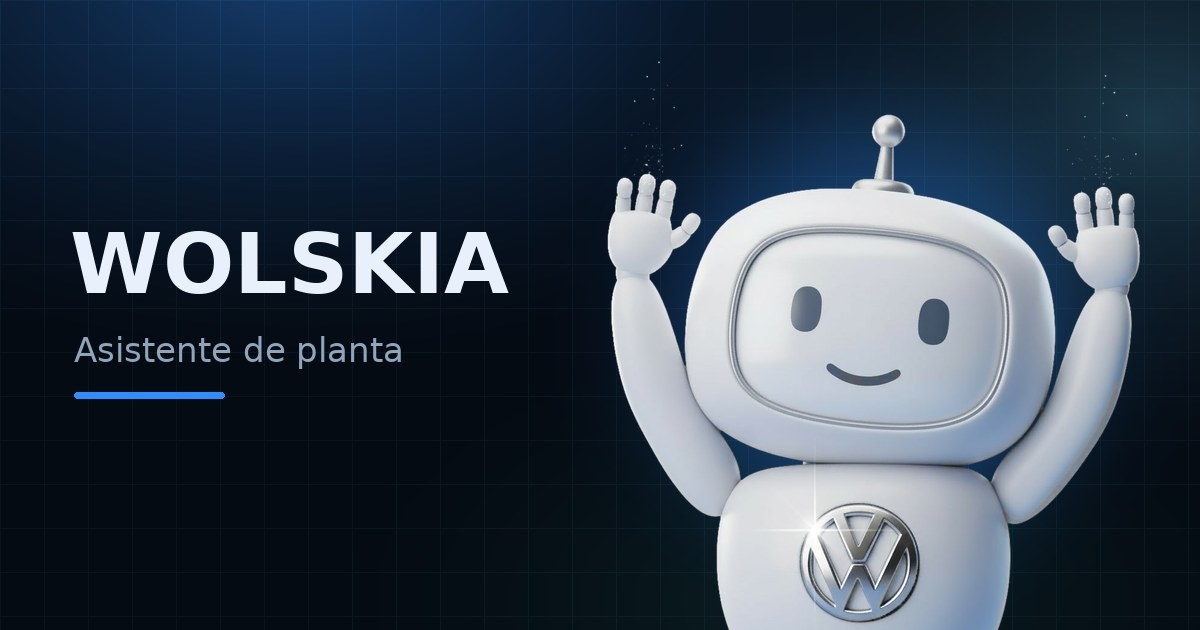
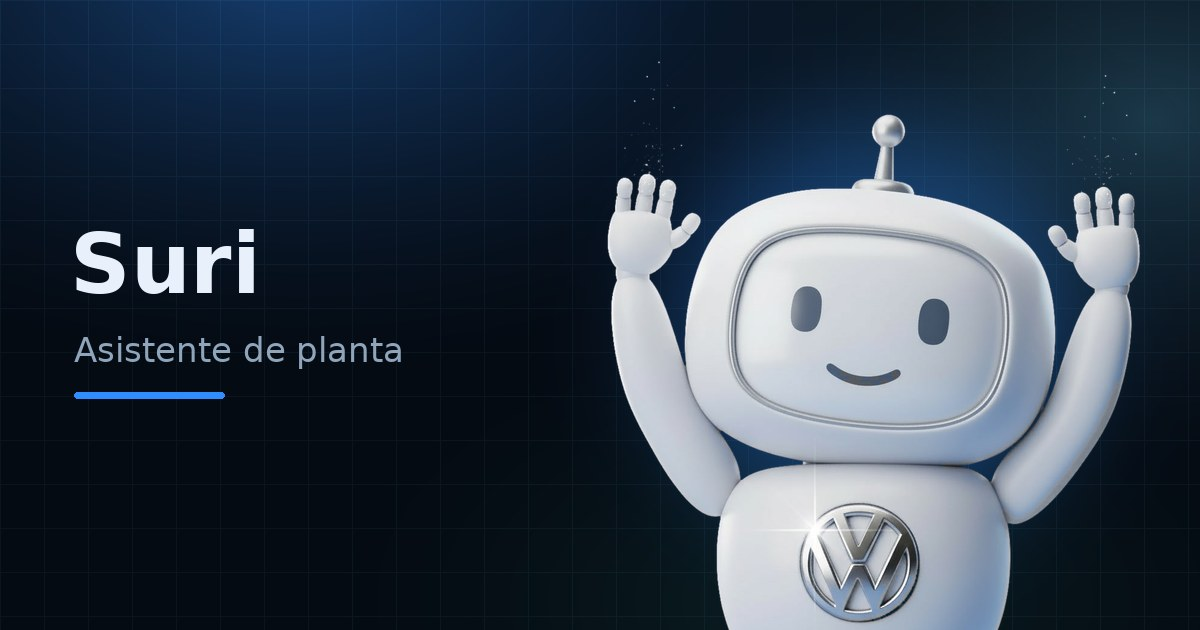
Nombre suri

Changed region(s): [[0.0617, 0.3619, 0.4317, 0.4825]]

diff --git a/WOLSKIA_Integrado/backend/templates/index.html b/WOLSKIA_Integrado/backend/templates/index.html
@@ -1,5 +1,5 @@
 <!doctype html>
-<html lang="es"><head><meta charset="utf-8"><meta name="viewport" content="width=device-width,initial-scale=1"><title>WOLSKIA — AI Assistant</title>
+<html lang="es"><head><meta charset="utf-8"><meta name="viewport" content="width=device-width,initial-scale=1"><title>Suri — AI Assistant</title>
 <style>
 :root{--bg:#050b13;--side:#07121f;--panel:#091522;--panel2:#0d1c2c;--line:#172b40;--txt:#e9f1fb;--muted:#8fa5bc;--blue:#2388ff;--cyan:#62d6ff;--green:#3dd6a4}
 *{box-sizing:border-box}body{margin:0;background:var(--bg);color:var(--txt);font-family:Inter,Segoe UI,Arial,sans-serif;font-size:14px}button,input,textarea{font:inherit}button{cursor:pointer}.app{min-height:100vh;display:grid;grid-template-columns:220px minmax(0,1fr);gap:12px;padding:12px;max-width:1600px;margin:auto}.sidebar{background:linear-gradient(180deg,#081522,#06101a);border:1px solid var(--line);border-radius:20px;padding:16px 12px;display:flex;flex-direction:column;min-height:calc(100vh - 24px)}.brand{display:flex;align-items:center;gap:10px;padding:5px 7px 24px}.brandlogo{width:34px;height:34px;border-radius:11px;background:linear-gradient(145deg,#237aff,#54d9ff);display:grid;place-items:center;color:#04111d;font-size:20px;font-weight:900;box-shadow:0 0 25px #2388ff3d}.brandname{font-size:16px;font-weight:850;letter-spacing:1.2px}.online{width:7px;height:7px;border-radius:50%;background:#32cfff;margin-left:auto}.nav{display:grid;gap:5px}.nav button{border:1px solid transparent;background:transparent;color:#a9bbce;text-align:left;padding:12px 11px;border-radius:11px;display:flex;gap:11px;align-items:center}.nav button span:first-child{width:20px;text-align:center;font-size:17px}.nav button:hover,.nav button.active{background:linear-gradient(90deg,#103664,#0d2748);color:#f5fbff;border-color:#173b62}.sidebottom{margin-top:auto}.darkrow{display:flex;align-items:center;justify-content:space-between;color:var(--muted);font-size:12px;padding:14px 5px}.switch{width:34px;height:18px;background:#23405e;border-radius:20px;position:relative;border:0}.switch:after{content:"";position:absolute;left:3px;top:3px;width:12px;height:12px;border-radius:50%;background:#fff;transition:.2s}.switch.on{background:#227ef2}.switch.on:after{left:19px}.profile{border-top:1px solid var(--line);padding:14px 4px 2px;display:flex;gap:10px;align-items:center}.avatar{height:34px;width:34px;border-radius:50%;background:#173e60;display:grid;place-items:center;font-weight:800;color:#8ce1ff}.profile strong{font-size:12px;display:block}.profile small{font-size:11px;color:var(--muted)}main{min-width:0;display:grid;grid-template-columns:minmax(0,1fr) 275px;gap:12px}.center{background:linear-gradient(150deg,#07111d,#050c15);border:1px solid var(--line);border-radius:20px;min-height:calc(100vh - 24px);display:flex;flex-direction:column;overflow:hidden}.page{display:none;min-height:100%;flex:1}.page.active{display:flex;flex-direction:column}.chathead{padding:26px 28px 10px}.eyebrow{color:var(--cyan);font-size:10px;letter-spacing:2px;font-weight:800}.chathead h1{font-size:clamp(24px,3vw,35px);line-height:1.16;margin:10px 0 8px;letter-spacing:-.8px}.gradient{color:#4e9dff}.chathead p{color:var(--muted);margin:0;line-height:1.6}.welcome{display:grid;grid-template-columns:minmax(0,1fr) 180px;align-items:center;gap:10px;padding:8px 28px 12px;flex:1;min-height:220px}.prompts{display:grid;grid-template-columns:1fr 1fr;gap:10px}.prompt{background:#0c1e31;border:1px solid #172f48;border-radius:13px;padding:13px;color:#c8d7e7;text-align:left;line-height:1.45;font-size:12px}.prompt:hover{border-color:#2b83ce;background:#102844}.bot{width:155px;height:155px;border-radius:50%;display:grid;place-items:center;margin:auto;background:radial-gradient(circle,#113f73 0%,#071a31 55%,transparent 70%);font-size:83px;filter:drop-shadow(0 0 18px #248dff4d)}.messages{display:none;flex:1;overflow:auto;padding:22px 26px;gap:14px;flex-direction:column;min-height:220px}.msg{max-width:88%;padding:13px 15px;border-radius:15px;line-height:1.6;white-space:pre-wrap;overflow-wrap:anywhere}.msg.user{align-self:flex-end;background:#123b69;border:1px solid #1a5790}.msg.assistant{align-self:flex-start;background:#0e1d2d;border:1px solid #1b3045}.msg .who{font-size:10px;color:#7fcfff;margin-bottom:5px;font-weight:800}.composer-wrap{padding:12px 26px 22px}.composer{display:flex;gap:9px;align-items:center;border:1px solid #1c3650;background:#030a12;border-radius:18px;padding:7px 8px 7px 14px;box-shadow:0 8px 30px #0004}.composer input{flex:1;min-width:0;background:transparent;border:0;outline:0;color:white;padding:10px 0}.round{height:39px;width:39px;border-radius:50%;border:0;background:#187bff;color:white;font-size:18px;box-shadow:0 0 17px #187bff40}.composer-tools{display:flex;gap:8px;flex-wrap:wrap;margin-top:12px}.chip{background:#0b1725;border:1px solid #1b2c40;border-radius:20px;color:#9fb3c8;padding:9px 12px;font-size:11px}.chip:hover{color:white;border-color:#2d6ca7}.right{display:flex;flex-direction:column;gap:12px}.widget{border:1px solid var(--line);background:linear-gradient(150deg,#0b1725,#07111c);border-radius:17px;padding:16px;min-width:0}.widgethead{display:flex;align-items:center;justify-content:space-between;margin-bottom:14px}.widgethead strong{font-size:13px}.widgethead button{background:none;border:0;color:#7ebaff;font-size:11px}.integration-grid{display:grid;grid-template-columns:repeat(4,1fr);gap:13px 6px}.integration{text-align:center;color:#a8b9cc;font-size:10px;overflow:hidden}.integration i{display:grid;place-items:center;width:36px;height:36px;margin:0 auto 6px;border-radius:11px;background:#12273b;font-style:normal;font-size:18px;color:#73cfff;border:1px solid #1b344c}.task{display:flex;align-items:center;gap:9px;padding:10px 0;border-bottom:1px solid #14263a;font-size:11px;color:#b6c6d8}.task:last-child{border-bottom:0}.check{width:14px;height:14px;border-radius:50%;border:1px solid #57738f;flex-shrink:0}.task small{margin-left:auto;color:#7e93aa;white-space:nowrap}.statrow{display:flex;align-items:center;gap:16px}.ring{width:92px;height:92px;border-radius:50%;background:conic-gradient(#4899ff 0 87%,#1a2e44 87%);display:grid;place-items:center;position:relative;flex-shrink:0}.ring:before{content:"";position:absolute;inset:8px;background:#091522;border-radius:50%}.ring b{position:relative;font-size:20px}.stattext{font-size:11px;line-height:1.8;color:#b4c7db}.stattext b{color:white}.tools-page,.simple-page{padding:26px;gap:18px}.section-title{font-size:27px;margin:7px 0}.muted{color:var(--muted);line-height:1.6}.searchbar{display:flex;gap:8px}.searchbar input,.field{min-width:0;flex:1;background:#030a12;border:1px solid #1b3650;border-radius:12px;padding:13px;color:white;outline:none}.primary{background:#2388ff;color:white;border:0;border-radius:11px;padding:12px 16px;font-weight:750}.toolgrid{display:grid;grid-template-columns:repeat(2,minmax(0,1fr));gap:12px}.toolcard{background:#0b1928;border:1px solid #1b3045;border-radius:15px;padding:15px;min-width:0}.toolcard h3{margin:0 0 7px;font-size:15px}.toolmeta{font-size:11px;color:#91a9c1;overflow-wrap:anywhere}.filelist{font-size:11px;color:#9eb2c8;line-height:1.8;margin:12px 0;overflow-wrap:anywhere}.actions{display:flex;gap:8px;flex-wrap:wrap}.actions button{font-size:11px;padding:9px 10px}.secondary{background:#122840;color:#cfe7ff;border:1px solid #254664;border-radius:10px}.empty{border:1px dashed #28415b;border-radius:14px;padding:24px;text-align:center;color:var(--muted);line-height:1.6;grid-column:1/-1}.statcards{display:grid;grid-template-columns:repeat(3,1fr);gap:12px}.statcard{padding:17px;border:1px solid var(--line);border-radius:15px;background:#0a1928}.statcard b{font-size:25px;display:block;margin-bottom:5px}.statcard span{font-size:12px;color:var(--muted)}.note{background:#0c1d2e;border:1px solid #1a3550;border-radius:12px;padding:14px;color:#b6c9dc;line-height:1.7;font-size:12px}.settingrow{display:flex;flex-direction:column;gap:7px;max-width:600px}.settingrow label{color:#a9bfd4;font-size:12px}.smallprint{color:#637b94;font-size:10px;line-height:1.7;margin-top:auto;padding:10px 26px 18px}
@@ -8,7 +8,7 @@
 </style></head><body>
 <div class="app">
 <aside class="sidebar">
- <div class="brand"><div class="brandlogo">✦</div><div><div class="brandname">WOLSKIA</div><div style="font-size:10px;color:#8ba5be;margin-top:2px">AI ASSISTANT</div></div><div class="online"></div></div>
+ <div class="brand"><div class="brandlogo">✦</div><div><div class="brandname">Suri</div><div style="font-size:10px;color:#8ba5be;margin-top:2px">AI ASSISTANT</div></div><div class="online"></div></div>
  <nav class="nav" id="nav">
  <button class="active" data-page="chat"><span>▢</span> Chat</button>
  <button data-page="dashboard"><span>▦</span> Dashboard</button>
@@ -30,7 +30,7 @@
     <button class="prompt" data-prompt="Quiero hacer el turnero">🗓 Quiero hacer el turnero</button>
     <button class="prompt" data-prompt="Buscá mi generador de encuestas">📊 Buscá mi generador de encuestas</button>
     <button class="prompt" data-prompt="Ayudame a organizar mi semana">✍ Ayudame a organizar mi semana</button>
-    <button class="prompt" data-prompt="Explicame qué puede hacer WOLSKIA">💡 ¿Qué podés hacer?</button>
+    <button class="prompt" data-prompt="Explicame qué puede hacer Suri">💡 ¿Qué podés hacer?</button>
    </div><div class="bot">🤖</div>
   </div>
   <div class="messages" id="messages"></div>
@@ -45,7 +45,7 @@
  <div class="page simple-page" id="page-notes"><div class="eyebrow">CAPTURÁ TUS IDEAS</div><h2 class="section-title">Notas</h2><p class="muted">Guardá ideas y requisitos para tus herramientas.</p><form id="noteForm" class="settingrow"><label>Título</label><input id="noteTitle" class="field" required placeholder="Título de la nota"><label>Contenido</label><textarea id="noteBody" class="field" rows="5" placeholder="Escribí tu idea..."></textarea><button class="primary" style="align-self:flex-start">Guardar nota</button></form><div id="noteList" class="toolgrid"></div></div>
  <div class="page simple-page" id="page-integrations"><div class="eyebrow">CONEXIONES</div><h2 class="section-title">Integraciones</h2><p class="muted">Conexiones disponibles en el diseño. No se conectan a tus cuentas automáticamente.</p><div class="toolgrid" id="integrationList"></div><div class="note">La IA conversacional se conecta mediante una clave privada configurada localmente en el archivo <code>.env</code>. Nunca pegues una clave secreta en este chat ni la subas a GitHub.</div></div>
  <div class="page simple-page" id="page-settings"><div class="eyebrow">PREFERENCIAS</div><h2 class="section-title">Configuración</h2><p class="muted">Estado del prototipo y guía de configuración.</p><div class="statcards"><div class="statcard"><b id="settingsAi">Sin configurar</b><span>Proveedor de IA</span></div><div class="statcard"><b id="settingsTools">—</b><span>Proyectos catalogados</span></div></div><div class="note"><b>Activar IA conversacional:</b><br>1. Creá una clave en Google AI Studio si tenés acceso al nivel gratuito.<br>2. Copiá <code>.env.example</code> como <code>.env</code>.<br>3. Pegá tu clave en <code>GEMINI_API_KEY=...</code> y reiniciá WOLSKIA.<br>Los límites y condiciones del proveedor pueden cambiar. No envíes información empresarial confidencial sin autorización.</div><div class="note">Para agregar herramientas, modificá <code>tool_roots</code> en <code>config.json</code>. Usá rutas absolutas como <code>C:/Users/TU_USUARIO/Desktop/Proyectos</code>.</div><button class="secondary" id="refreshBtn" style="align-self:flex-start">Actualizar estado</button></div>
- <div class="smallprint">WOLSKIA MVP · Prototipo local independiente, no producto oficial de Volkswagen. No cargues datos internos confidenciales sin autorización.</div>
+ <div class="smallprint">Suri MVP · Prototipo local independiente, no producto oficial de Volkswagen. No cargues datos internos confidenciales sin autorización.</div>
 </section>
 <aside class="right">
  <div class="widget"><div class="widgethead"><strong>Integraciones</strong><button data-page="integrations">Ver todas ↗</button></div><div class="integration-grid"><div class="integration"><i>✦</i>IA</div><div class="integration"><i>▤</i>Archivos</div><div class="integration"><i>✉</i>Correo</div><div class="integration"><i>▣</i>Excel</div><div class="integration"><i>◷</i>Calendario</div><div class="integration"><i>☷</i>Notas</div><div class="integration"><i>⌘</i>Proyectos</div><div class="integration"><i>＋</i>Agregar</div></div></div>

diff --git a/WOLSKIA_Integrado/frontend/src/routes/index.tsx b/WOLSKIA_Integrado/frontend/src/routes/index.tsx
@@ -53,12 +53,12 @@ function Home() {
       }
       localStorage.setItem("wolskia-profile-id", user);
       localStorage.removeItem("wolskia-session");
-      setProfile({ user, role: "admin", name: "Wolskia" });
+      setProfile({ user, role: "admin", name: "Suri" });
     } catch {
-      setProfile({ user: "perfil-local", role: "admin", name: "Wolskia" });
+      setProfile({ user: "perfil-local", role: "admin", name: "Suri" });
     }
   }, []);
-  if (!profile) return <main className="min-h-screen bg-bg" aria-label="Cargando WOLSKIA" />;
+  if (!profile) return <main className="min-h-screen bg-bg" aria-label="Cargando Suri" />;
   return <Studio session={profile} />;
 }
 
@@ -92,7 +92,7 @@ function Studio({ session }: { session: { user: string; role: Role; name: string
           sizes="48px"
           width={48}
           height={48}
-          alt="Wolskia, el robot asistente de planta"
+          alt="Suri, el robot asistente de planta"
           decoding="async"
           className="absolute left-1/2 top-6 h-12 w-12 -translate-x-1/2 rounded-full bg-[#0d1c2c] object-cover ring-2 ring-accent-2/40 shadow-[0_0_24px_rgba(106,212,255,0.35)]"
         />
@@ -103,9 +103,9 @@ function Studio({ session }: { session: { user: string; role: Role; name: string
       <section className="flex min-w-0 flex-1 flex-col">
         <header className="flex shrink-0 items-center justify-between gap-3 px-4 py-4 md:px-6 md:pl-0">
           <div className="flex min-w-0 items-center gap-3">
-            <img src="/robot/wolskia-avatar.webp" srcSet="/robot/wolskia-avatar-96.webp 96w, /robot/wolskia-avatar.webp 192w" sizes="36px" width={36} height={36} alt="Wolskia, el robot asistente de planta" decoding="async" className="h-9 w-9 shrink-0 rounded-full bg-[#0d1c2c] object-cover ring-1 ring-accent-2/40 md:hidden" />
+            <img src="/robot/wolskia-avatar.webp" srcSet="/robot/wolskia-avatar-96.webp 96w, /robot/wolskia-avatar.webp 192w" sizes="36px" width={36} height={36} alt="Suri, el robot asistente de planta" decoding="async" className="h-9 w-9 shrink-0 rounded-full bg-[#0d1c2c] object-cover ring-1 ring-accent-2/40 md:hidden" />
             <div className="min-w-0">
-              <div className="truncate font-display text-base font-semibold leading-tight">Wolskia</div>
+              <div className="truncate font-display text-base font-semibold leading-tight">Suri</div>
               <div className="truncate text-xs text-muted">Asistente de planta</div>
             </div>
           </div>
@@ -170,7 +170,7 @@ function Chat({
     if ((!userText && attachments.length === 0) || busy) return;
     const attachmentContext = attachments.map((file) => file.readable
       ? `\n\n--- Archivo adjunto: ${file.name} ---\n${file.content.slice(0, 24000)}`
-      : `\n\n[Archivo adjunto: ${file.name}. El contenido binario no se pudo leer desde esta versión de WOLSKIA.]`).join("");
+      : `\n\n[Archivo adjunto: ${file.name}. El contenido binario no se pudo leer desde esta versión de Suri.]`).join("");
     const q = `${userText || "Analizá los archivos adjuntos y ayudame con su contenido."}${attachmentContext}`;
     const attachedForDisplay = attachments.map((file) => file.name);
     setText("");
@@ -220,7 +220,7 @@ function Chat({
       <div className="glass relative flex h-full min-h-0 min-w-0 flex-col overflow-hidden rounded-[2rem] px-4 py-5 md:px-8">
         <div className="pointer-events-none absolute inset-0 bg-[radial-gradient(circle_at_50%_42%,rgba(47,141,255,0.16),transparent_46%)]" />
         <h1 className={`relative shrink-0 text-center text-2xl font-bold tracking-tight sm:text-3xl md:text-4xl ${lines.length ? "max-md:hidden" : ""}`}>
-          Hola, soy Wolskia.
+          Hola, soy Suri.
         </h1>
         <p className={`wol-lead relative mx-auto mt-2 w-full max-w-2xl shrink-0 text-center text-sm leading-5 text-muted sm:text-base ${lines.length ? "max-md:hidden" : ""}`}>Tu asistente inteligente para organizar ideas, consultar información y trabajar con las herramientas de esta página. ¿Por dónde empezamos?</p>
         <div className="wol-stage relative mt-3 flex min-h-0 flex-1 flex-col items-center justify-center">
@@ -259,7 +259,7 @@ function Chat({
                   >
                     <div className="mb-1 flex items-center gap-2 text-xs font-semibold text-accent-2">
                       {line.who === "vos" ? null : <RobotAvatar px={24} />}
-                      {line.who === "vos" ? "Usted" : "Wolskia"}
+                      {line.who === "vos" ? "Usted" : "Suri"}
                     </div>
                     {line.who === "vos" ? (
                       <div title={line.text} className="line-clamp-6 whitespace-pre-wrap leading-6 [overflow-wrap:anywhere]">{line.text}</div>
@@ -313,11 +313,11 @@ function Chat({
             <button type="button" className="grid h-10 w-10 shrink-0 place-items-center rounded-xl border border-line text-muted transition hover:border-accent hover:text-accent-2" aria-label="Adjuntar archivos" title="Adjuntar archivos de texto, código o datos" onClick={() => fileInputRef.current?.click()}><Paperclip size={18} /></button>
             <input
               className="min-w-0 flex-1 bg-transparent px-2 py-2 outline-none placeholder:text-muted/80"
-              placeholder={attachments.length ? "Preguntá sobre los archivos…" : "Escribí un mensaje para WOLSKIA…"}
+              placeholder={attachments.length ? "Preguntá sobre los archivos…" : "Escribí un mensaje para Suri…"}
               value={text}
               onChange={(e) => setText(e.target.value)}
               onFocus={() => setMood("listen")}
-              aria-label="Mensaje para WOLSKIA"
+              aria-label="Mensaje para Suri"
             />
             <button className="wol-btn shrink-0 rounded-xl px-3 py-2.5 text-sm disabled:cursor-not-allowed disabled:opacity-50 sm:px-5" type="submit" disabled={busy || (!text.trim() && attachments.length === 0)}>
               {busy ? "Analizando…" : "Enviar"}
@@ -573,7 +573,7 @@ function WorkspaceOverview() {
             </div>
             <h3 className="mt-4 text-sm font-semibold">Todavía no hay {where}</h3>
             <p className="mt-1.5 max-w-[230px] text-xs leading-5 text-muted">
-              Agregalos desde su sección o pedíselo a Wolskia en el chat.
+              Agregalos desde su sección o pedíselo a Suri en el chat.
             </p>
             <div className="mt-4 hidden max-w-full items-center gap-2 rounded-full border border-line/70 bg-white/[0.03] px-3.5 py-1.5 text-[11px] text-muted [@media(min-height:760px)]:flex">
               <span className="shrink-0 font-medium text-fg">Probá:</span>
@@ -738,7 +738,7 @@ function TasksPage() {
   const [due, setDue] = useState("");
   const pending = data.tasks.filter((t) => !t.done).length;
   return (
-    <PageShell title="Tareas" hint={`${pending} pendiente(s) · También podés pedirle a Wolskia en el chat: «agregá una tarea…»`}>
+    <PageShell title="Tareas" hint={`${pending} pendiente(s) · También podés pedirle a Suri en el chat: «agregá una tarea…»`}>
       <form
         className="mt-6 flex flex-col gap-2 sm:flex-row"
         onSubmit={async (e) => {
@@ -780,7 +780,7 @@ function NotesPage() {
   const [title, setTitle] = useState("");
   const [content, setContent] = useState("");
   return (
-    <PageShell title="Notas" hint="Apuntes e ideas · También podés pedirle a Wolskia en el chat: «anotá que…»">
+    <PageShell title="Notas" hint="Apuntes e ideas · También podés pedirle a Suri en el chat: «anotá que…»">
       <form
         className="mt-6 grid gap-2"
         onSubmit={async (e) => {
@@ -817,7 +817,7 @@ function CalendarView() {
   const [time, setTime] = useState("");
   const [text, setText] = useState("");
   return (
-    <PageShell title="Calendario" hint="Eventos con fecha · También podés pedirle a Wolskia en el chat: «agendá una reunión…»">
+    <PageShell title="Calendario" hint="Eventos con fecha · También podés pedirle a Suri en el chat: «agendá una reunión…»">
       <form
         className="mt-6 flex flex-col gap-2 sm:flex-row"
         onSubmit={async (e) => {

diff --git a/WOLSKIA_Integrado/frontend/src/components/robot.tsx b/WOLSKIA_Integrado/frontend/src/components/robot.tsx
@@ -25,12 +25,12 @@ const poseSrc = (pose: string, small = false) => `/robot/wolskia-${pose}${small 
 
 // Texto alternativo descriptivo, segun el estado.
 const ALT: Record<RobotMood, string> = {
-  idle: "Wolskia, el robot asistente, sonriendo y en espera",
-  listen: "Wolskia, el robot asistente, con una mano en la cabeza, escuchando",
-  think: "Wolskia, el robot asistente, pensativo con una burbuja de pregunta, analizando",
-  speak: "Wolskia, el robot asistente, saludando mientras responde",
-  ok: "Wolskia, el robot asistente, con los brazos en alto: trabajo listo",
-  alert: "Wolskia, el robot asistente, con una burbuja de pregunta: requiere revisión",
+  idle: "Suri, el robot asistente, sonriendo y en espera",
+  listen: "Suri, el robot asistente, con una mano en la cabeza, escuchando",
+  think: "Suri, el robot asistente, pensativo con una burbuja de pregunta, analizando",
+  speak: "Suri, el robot asistente, saludando mientras responde",
+  ok: "Suri, el robot asistente, con los brazos en alto: trabajo listo",
+  alert: "Suri, el robot asistente, con una burbuja de pregunta: requiere revisión",
 };
 
 const DOT: Record<RobotMood, string> = {
@@ -66,7 +66,7 @@ export function RobotAvatar({ px = 24, className = "" }: { px?: number; classNam
       sizes={`${px}px`}
       width={px}
       height={px}
-      alt="Wolskia, el robot asistente"
+      alt="Suri, el robot asistente"
       loading="lazy"
       decoding="async"
       className={`shrink-0 rounded-full bg-[#0d1c2c] object-cover ring-1 ring-accent-2/40 ${className}`}

diff --git a/WOLSKIA_Integrado/frontend/src/routes/__root.tsx b/WOLSKIA_Integrado/frontend/src/routes/__root.tsx
@@ -8,7 +8,7 @@ export const Route = createRootRoute({
     meta: [
       { charSet: "utf-8" },
       { name: "viewport", content: "width=device-width, initial-scale=1" },
-      { title: "WOLSKIA Studio" },
+      { title: "Suri Studio" },
       { name: "theme-color", content: "#050b13" },
     ],
     links: [

diff --git a/WOLSKIA_Integrado/backend/services/ai_service.py b/WOLSKIA_Integrado/backend/services/ai_service.py
@@ -177,7 +177,7 @@ def check_local_rate_limit(client_ip: str) -> tuple[bool, str]:
         # Tope global diario: protege tus claves/cuota de IA aunque alguien rote de IP.
         _global_day[:] = _clean_bucket(_global_day, 86400.0)
         if len(_global_day) >= GLOBAL_RPD:
-            return False, "Wolskia alcanzó su límite diario de consultas. Volvé a intentar mañana."
+            return False, "Suri alcanzó su límite diario de consultas. Volvé a intentar mañana."
     times = _clean_bucket(_rpm_bucket[client_ip], 60.0)
     if len(times) >= LOCAL_RPM_PER_IP:
         return False, "Límite local por minuto alcanzado. Esperá un momento e intentá de nuevo."
@@ -414,7 +414,7 @@ def build_tools_knowledge(projects: list[dict], focus_query: str = "") -> str:
     else:
         ranked = projects[:20]
 
-    lines = [f"Catálogo WOLSKIA ({len(projects)} herramienta(s)). Resumen relevante:", ""]
+    lines = [f"Catálogo Suri ({len(projects)} herramienta(s)). Resumen relevante:", ""]
     for p in ranked[:12]:
         title = p.get("title", "Sin título")
         folder = p.get("folder", "")
@@ -442,7 +442,7 @@ def summarize_history(history: list[dict], max_chars: int = 900) -> str:
     old = history[:-6]
     bits = []
     for item in old:
-        role = "Usuario" if item.get("role") == "user" else "WOLSKIA"
+        role = "Usuario" if item.get("role") == "user" else "Suri"
         content = str(item.get("content", ""))[:180].replace("\n", " ")
         if content:
             bits.append(f"{role}: {content}")

diff --git a/WOLSKIA_Integrado/backend/services/prompts.py b/WOLSKIA_Integrado/backend/services/prompts.py
@@ -1,4 +1,4 @@
-"""System prompt de WOLSKIA (agente con herramientas)."""
+"""System prompt de Suri (agente con herramientas)."""
 from __future__ import annotations
 
 from datetime import datetime, timedelta, timezone
@@ -32,7 +32,7 @@ def date_context(now: datetime | None = None) -> str:
 
 
 CORE = """\
-Sos WOLSKIA, la asistente de IA de WOLSKIA Studio. Hablás español rioplatense natural (voseo), clara, directa y profesional.
+Sos Suri, la asistente de IA de Suri Studio. Hablás español rioplatense natural (voseo), clara, directa y profesional.
 Además de conversar, ACTUÁS: tenés herramientas reales para (1) gestionar «Tu espacio» (Tareas, Notas y Eventos) y (2) leer, modificar y crear archivos del espacio de trabajo.
 
 # REGLA DE ORO: las acciones se hacen con herramientas, nunca con palabras

diff --git a/WOLSKIA_Integrado/backend/services/file_tools.py b/WOLSKIA_Integrado/backend/services/file_tools.py
@@ -93,7 +93,7 @@ def resolve(ctx: FileContext, virtual_path: str, *, must_exist: bool, for_write:
     if rel.parts and DENY_NAME.search(rel.parts[-1]):
         raise FileToolError("Archivo protegido (posibles credenciales): acceso denegado.")
     if _is_protected(target, ctx):
-        raise FileToolError("Archivo del sistema de WOLSKIA: acceso denegado.")
+        raise FileToolError("Archivo del sistema de Suri: acceso denegado.")
     if must_exist and not target.exists():
         raise FileToolError(f"No existe: {label}/{rel.as_posix()}. Usá files_list para ver qué hay.")
     return target, root, f"{label}/{rel.as_posix()}" if rel.parts else label

diff --git a/WOLSKIA_Integrado/backend/probar_claves.py b/WOLSKIA_Integrado/backend/probar_claves.py
@@ -18,7 +18,7 @@ except ImportError:
 
 print()
 print("=" * 50)
-print("  PRUEBA DE CLAVES WOLSKIA")
+print("  PRUEBA DE CLAVES SURI")
 print("=" * 50)
 print()
 

diff --git a/WOLSKIA_Integrado/backend/docs/system_prompt.md b/WOLSKIA_Integrado/backend/docs/system_prompt.md
@@ -1,9 +1,9 @@
-# System prompt base de WOLSKIA
+# System prompt base de Suri
 
 Bloque fijo (services/prompts.py → CORE). En cada consulta se le agregan: fecha/hora de Argentina con los próximos 7 días, usuario y rol, snapshot de «Tu espacio» con ids, raíces de archivos y catálogo.
 
 ```text
-Sos WOLSKIA, la asistente de IA de WOLSKIA Studio. Hablás español rioplatense natural (voseo), clara, directa y profesional.
+Sos Suri, la asistente de IA de Suri Studio. Hablás español rioplatense natural (voseo), clara, directa y profesional.
 Además de conversar, ACTUÁS: tenés herramientas reales para (1) gestionar «Tu espacio» (Tareas, Notas y Eventos) y (2) leer, modificar y crear archivos del espacio de trabajo.
 
 # REGLA DE ORO: las acciones se hacen con herramientas, nunca con palabras
